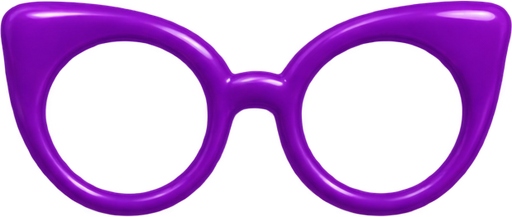
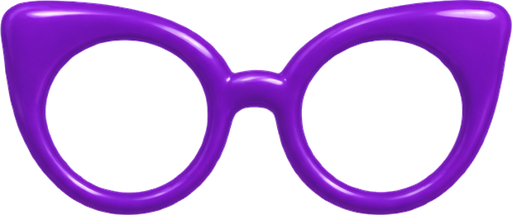
Yeni kare (kırmızı) ve kedi gözü gözlük dokuları
Claude-Session: https://claude.ai/code/session_01AxRgngA4sBzvv4bBr9u7nj

diff --git a/main.swift b/main.swift
@@ -2220,7 +2220,7 @@ enum Costume {
         ("Yok", nil, 0, 0),
         ("Siyah yuvarlak", "glasses_black", 0.232, 0.767),
         ("Kedi gözü", "glasses_cat", 0.247, 0.746),
-        ("Kare", "glasses_square", 0.231, 0.767),
+        ("Kare", "glasses_square", 0.229, 0.768),
         ("Altın", "glasses_gold", 0.227, 0.775),
     ]
     static var glassesNames: [String] { glassesOptions.map { $0.name } }

diff --git a/RELEASE_NOTES.md b/RELEASE_NOTES.md
@@ -1,3 +1,4 @@
+• Kare gözlük artık kırmızı, kedi gözü gözlük yenilendi
 • Ekran kaydında görünür "■ Durdur" düğmesi ve süre göstergesi
 • İşaretleme penceresine Renk seç ve Metni kopyala araçları eklendi
 • Metni Kopyala ana menüden kaldırıldı (kısayolu ⌥⇧T ve işaretleme aracı duruyor)
